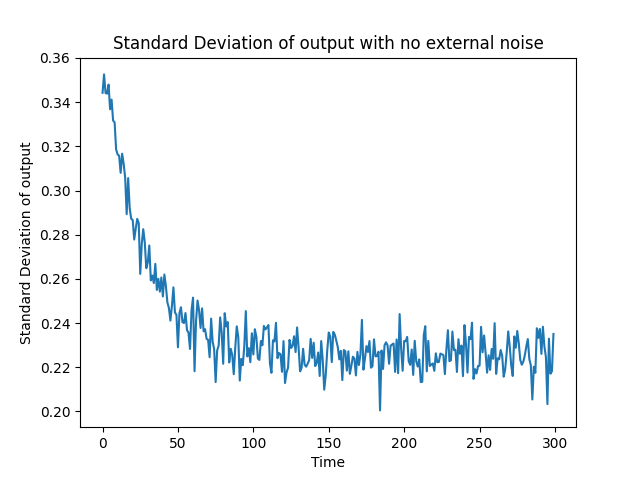
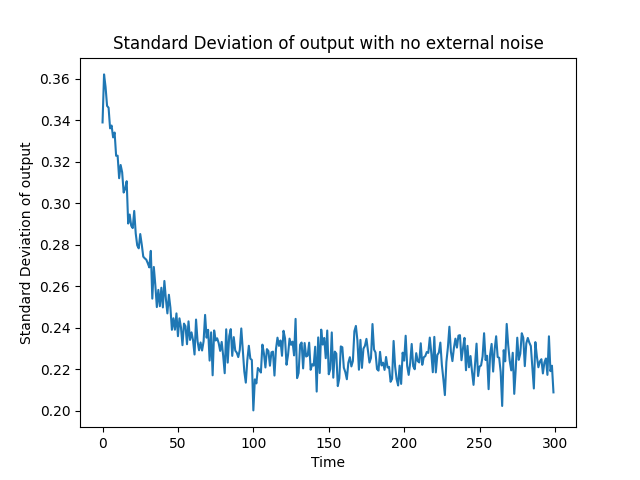
minor changes in code

diff --git a/differential_privacy.py b/differential_privacy.py
@@ -133,6 +133,7 @@ def x_mat(n_tp=300, x_supply0=1.5, DP=True, eps=0.1, plot=True, K=1, T=1, show_p
       plt.ylabel("Supply Demand Mismatch (MW)")
       plt.title("Supply demand Mismatch with no external noise")
       plt.savefig('results/sup_dem_mismatch_no_external_noise.png')
+      print('saved plot in results/sup_dem_mismatch_no_external_noise.png')
       if(show_plot):
         plt.show()
       plt.close()
@@ -142,6 +143,7 @@ def x_mat(n_tp=300, x_supply0=1.5, DP=True, eps=0.1, plot=True, K=1, T=1, show_p
       plt.ylabel("Standard Deviation of output")
       plt.title("Standard Deviation of output with no external noise")
       plt.savefig("results/standard_dev_output_no_external_noise.png")
+      print('saved plot in results/standard_dev_output_no_external_noise.png')
       if(show_plot):
         plt.show()
       plt.close()
@@ -157,6 +159,7 @@ def x_mat(n_tp=300, x_supply0=1.5, DP=True, eps=0.1, plot=True, K=1, T=1, show_p
       plt.title("Privacy Level=("+str(eps)+", 0.01)")
       output_file = 'results/sup_dem_mismatch_DP_for_eps=' + str(eps) + '_and_lambda=0.01.png'
       plt.savefig(output_file)
+      print("saved plot in "+output_file)
       if(show_plot):
         plt.show()
       plt.close()
@@ -167,6 +170,7 @@ def x_mat(n_tp=300, x_supply0=1.5, DP=True, eps=0.1, plot=True, K=1, T=1, show_p
       plt.title("Privacy Level=("+str(eps)+", 0.01)")
       output_file = 'results/standard_dev_noise_DP_for_eps=' + str(eps) + '_and_lambda=0.01.png'
       plt.savefig(output_file)
+      print("saved plot in "+output_file)
       if(show_plot):
         plt.show()
       plt.close()
@@ -178,7 +182,7 @@ def x_mat(n_tp=300, x_supply0=1.5, DP=True, eps=0.1, plot=True, K=1, T=1, show_p
 
 def calc_noise(eps=0.1):
   exp_std = 0.354*0.1/eps
-  curr_std = 0.24
+  curr_std = 0.23
   var_noise = (exp_std * exp_std - curr_std*curr_std)
   noise = np.random.normal(0, math.sqrt((var_noise) / n_homes), n_homes)
   return noise

diff --git a/kalman.py b/kalman.py
@@ -57,6 +57,7 @@ def EstimateNoiseWithKalman():
 	plt.xlabel("Time")
 	plt.ylabel("Kalman Gain")
 	plt.savefig("results/kalman_gain.png")
+	print("saved plot in results/kalman_gain.png")
 	plt.show()
 
 
@@ -66,12 +67,14 @@ def EstimateNoiseWithKalman():
 	plt.ylabel("Estimated and Original Total Demand")
 	plt.legend()
 	plt.savefig("results/original_and_estimated_signal.png")
+	print("saved plot in results/original_and_estimated_signal.png")
 	plt.show()
 
 	plt.plot(noise[:-1])
 	plt.xlabel("Time")
 	plt.ylabel("Estimated Total Noise")
 	plt.savefig("results/estimated_noise.png")
+	print("saved plot in results/estimated_noise.png")
 	plt.show()
 
 	print("Standard deviation of noise in individual consumer demands", np.sqrt(np.var(noise[-900:-1]) / n_homes))
